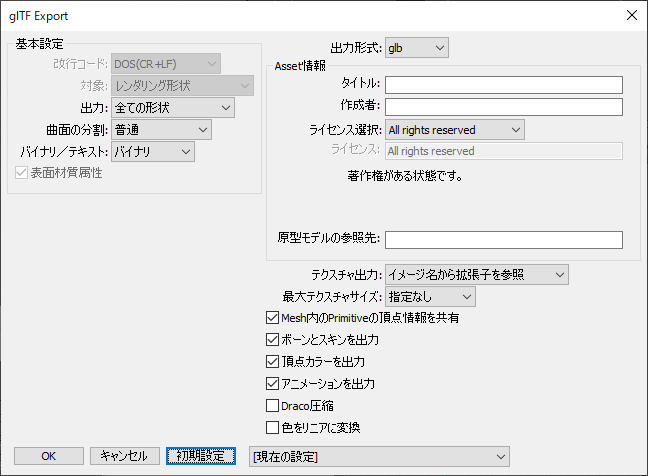
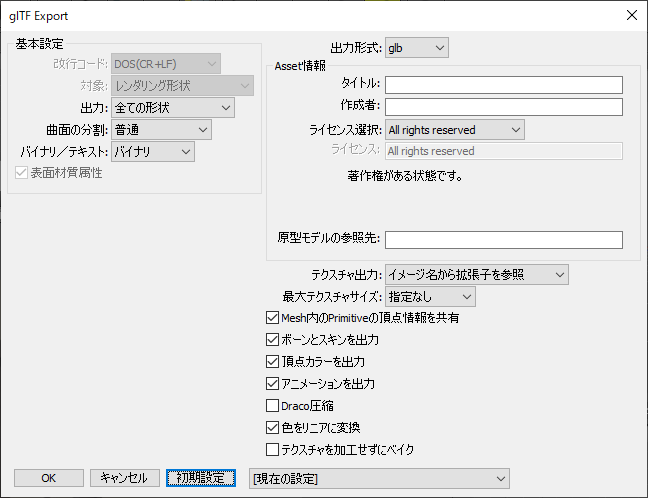
Update readme.

diff --git a/UpdateLog.md b/UpdateLog.md
@@ -1,5 +1,12 @@
 # 更新履歴
 
+[2020/12/28] ver.0.2.4.2   
+
+* [Fixed] Export : AlphaModeがMask時にalphaCutoffが出力できていなかった問題を修正    
+* [Fixed] Export : マスターイメージ名が同一のものがある場合、正しくテクスチャが出力されない場合があった問題を修正     
+* [Added] Export :「テクスチャを加工せずにベイク」オプションを追加    
+* [Added] Export : マッピングでバンプを使用している場合に、法線マップに置き換えて出力    
+
 [2020/10/30] ver.0.2.4.1   
 
 * [Fixed] Export : 面積がゼロの面がある場合に、頂点カラーを使用すると頂点カラーがずれる問題を修正    
